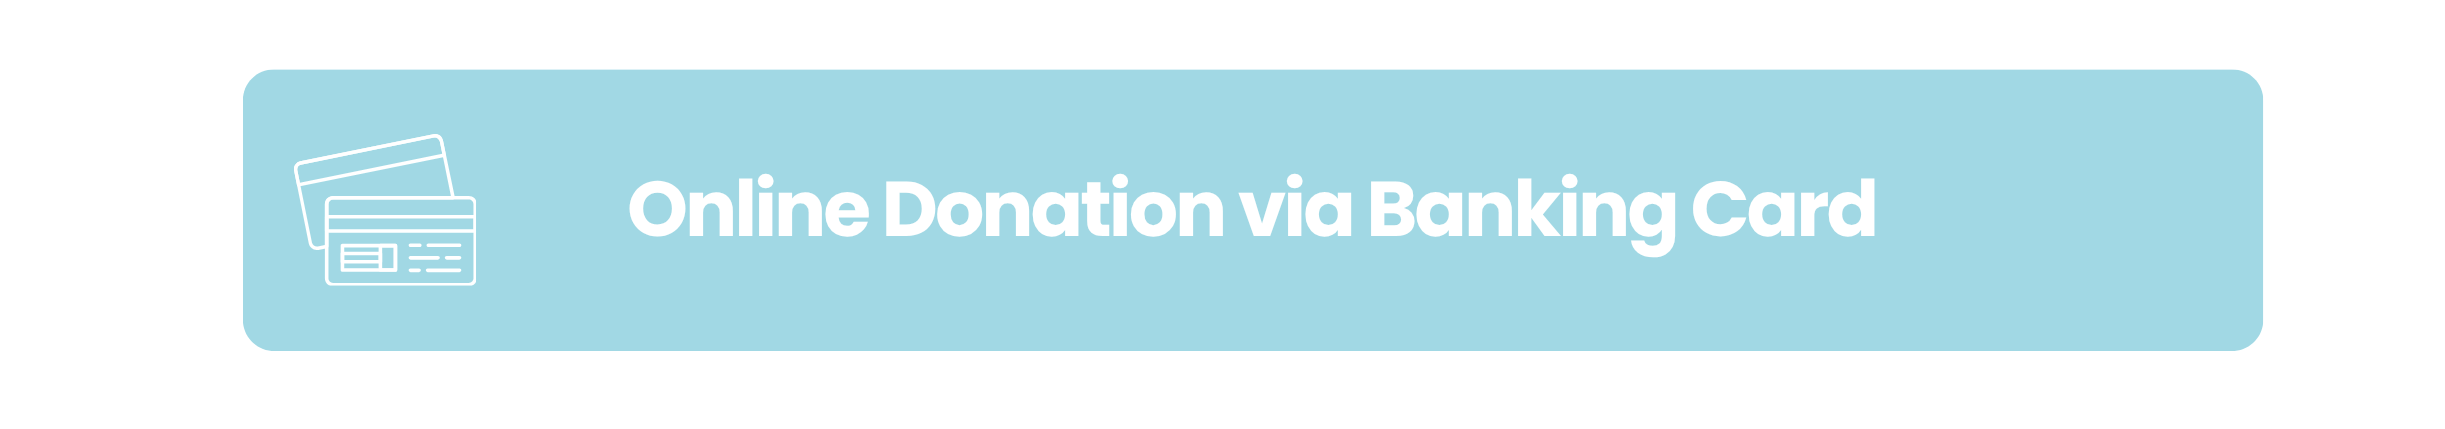
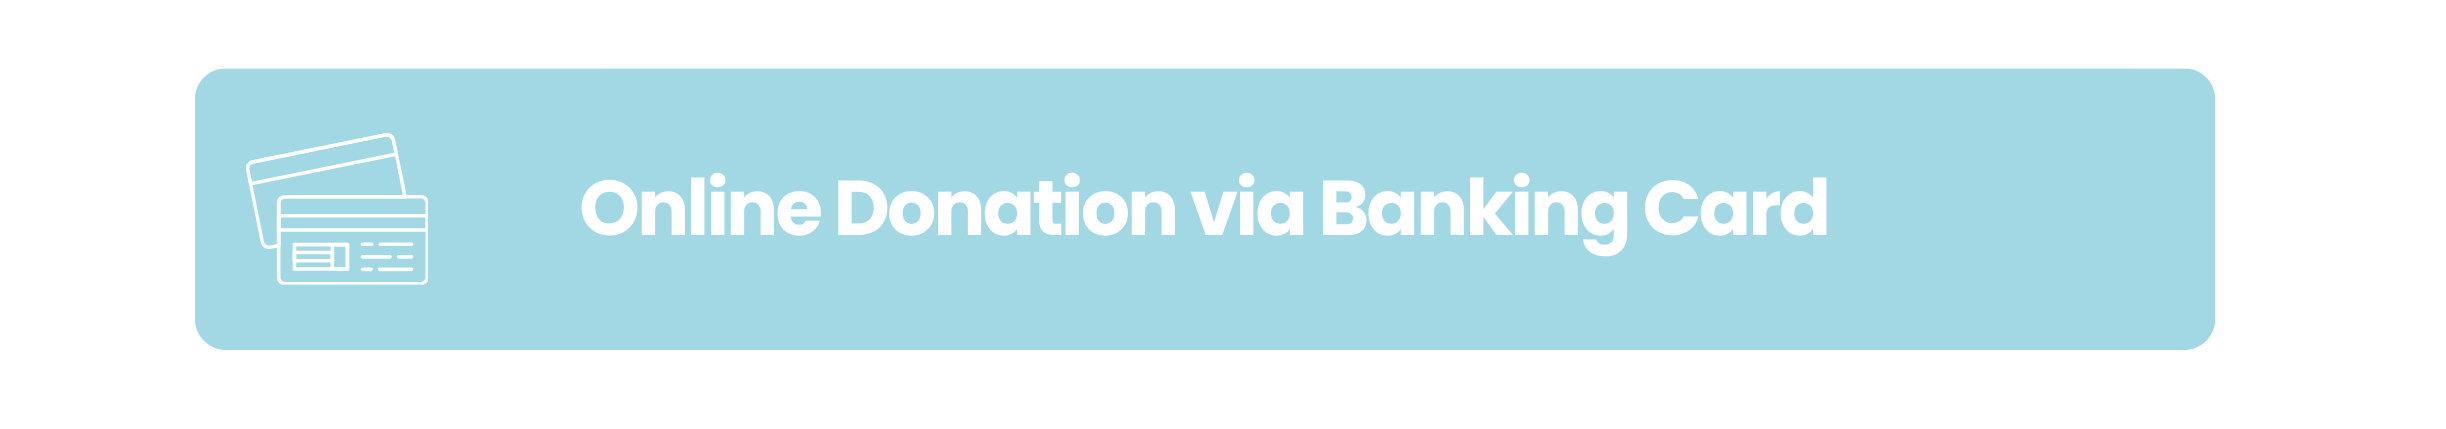
updated the whole website

Changed region(s): [[0.0622, 0.1515, 0.9325, 0.8182]]

diff --git a/src/pages/Impact.tsx b/src/pages/Impact.tsx
@@ -3,37 +3,11 @@ import Footer from "@/components/Footer";
 
 const Impact = () => {
   return (
-    <div className="min-h-screen relative">
+    <div className="min-h-screen relative" style={{ background: "#82C9D8" }}>
       <Navbar />
       
-      {/* Spacer to show background color above Impact section */}
-      <div 
-        className="h-32 md:h-40 lg:h-48"
-        style={{
-          background: '#7EC7D7',
-          backgroundImage: `
-            repeating-linear-gradient(45deg, transparent, transparent 10px, rgba(255,255,255,0.03) 10px, rgba(255,255,255,0.03) 20px),
-            repeating-linear-gradient(-45deg, transparent, transparent 10px, rgba(0,0,0,0.02) 10px, rgba(0,0,0,0.02) 20px),
-            radial-gradient(circle at 30% 30%, rgba(255,255,255,0.1) 0%, transparent 50%),
-            radial-gradient(circle at 70% 70%, rgba(255,255,255,0.08) 0%, transparent 50%)
-          `,
-          backgroundSize: '100% 100%, 100% 100%, 100% 100%, 100% 100%'
-        }}
-      ></div>
-
-      {/* Real People, Real Impact Section */}
       <section 
-        className="relative px-4 py-12 md:py-16 lg:py-20"
-        style={{
-          background: '#7EC7D7',
-          backgroundImage: `
-            repeating-linear-gradient(45deg, transparent, transparent 10px, rgba(255,255,255,0.03) 10px, rgba(255,255,255,0.03) 20px),
-            repeating-linear-gradient(-45deg, transparent, transparent 10px, rgba(0,0,0,0.02) 10px, rgba(0,0,0,0.02) 20px),
-            radial-gradient(circle at 30% 30%, rgba(255,255,255,0.1) 0%, transparent 50%),
-            radial-gradient(circle at 70% 70%, rgba(255,255,255,0.08) 0%, transparent 50%)
-          `,
-          backgroundSize: '100% 100%, 100% 100%, 100% 100%, 100% 100%'
-        }}
+        className="relative px-4 pt-28 pb-12 md:pt-32 md:pb-16 lg:pt-36 lg:pb-20"
       >
         <div className="relative mx-auto max-w-7xl">
           {/* Main Title */}

diff --git a/src/pages/OurTeam.tsx b/src/pages/OurTeam.tsx
@@ -73,37 +73,11 @@ const teamMembers: TeamMember[] = [
 
 const OurTeam = () => {
   return (
-    <div className="min-h-screen relative">
+    <div className="min-h-screen relative" style={{ background: "#9EC961" }}>
       <Navbar />
 
-      {/* Spacer to show background color above section */}
-      <div
-        className="h-32 md:h-40 lg:h-48"
-        style={{
-          background: "#8EC046",
-          backgroundImage: `
-            repeating-linear-gradient(45deg, transparent, transparent 10px, rgba(255,255,255,0.05) 10px, rgba(255,255,255,0.05) 20px),
-            repeating-linear-gradient(-45deg, transparent, transparent 10px, rgba(0,0,0,0.03) 10px, rgba(0,0,0,0.03) 20px),
-            radial-gradient(circle at 25% 25%, rgba(255,255,255,0.15) 0%, transparent 55%),
-            radial-gradient(circle at 75% 75%, rgba(255,255,255,0.1) 0%, transparent 55%)
-          `,
-          backgroundSize: "100% 100%, 100% 100%, 100% 100%, 100% 100%",
-        }}
-      ></div>
-
-      {/* Our Team Section */}
       <section
-        className="relative px-4 py-12 md:py-16 lg:py-20"
-        style={{
-          background: "#8EC046",
-          backgroundImage: `
-            repeating-linear-gradient(45deg, transparent, transparent 10px, rgba(255,255,255,0.05) 10px, rgba(255,255,255,0.05) 20px),
-            repeating-linear-gradient(-45deg, transparent, transparent 10px, rgba(0,0,0,0.03) 10px, rgba(0,0,0,0.03) 20px),
-            radial-gradient(circle at 25% 25%, rgba(255,255,255,0.15) 0%, transparent 55%),
-            radial-gradient(circle at 75% 75%, rgba(255,255,255,0.1) 0%, transparent 55%)
-          `,
-          backgroundSize: "100% 100%, 100% 100%, 100% 100%, 100% 100%",
-        }}
+        className="relative px-4 pt-28 pb-12 md:pt-32 md:pb-16 lg:pt-36 lg:pb-20"
       >
         <div className="relative mx-auto max-w-7xl">
           {/* Title */}

diff --git a/src/pages/OurWork.tsx b/src/pages/OurWork.tsx
@@ -80,7 +80,7 @@ const OurWork = () => {
   }, []);
   return (
     <div 
-      className="min-h-screen relative"
+      className="min-h-screen relative overflow-x-hidden"
       style={{
         background: `
           radial-gradient(circle at 20% 50%, #A173BD 0%, transparent 50%),
@@ -149,9 +149,9 @@ const OurWork = () => {
             }`}
           >
             <img
-              src="/Images/Landing Page/CoA tree.png"
+              src="/Images/Landing Page/CoA tree1.png"
               alt="Children of Adam tree"
-              className="w-[28rem] md:w-[32rem] lg:w-[36rem] xl:w-[40rem]"
+              className="w-[16rem] md:w-[18rem] lg:w-[20rem] xl:w-[22rem]"
             />
           </div>
 
@@ -160,7 +160,7 @@ const OurWork = () => {
             {/* Engage - Left Column */}
             <div 
               data-animate-id="engage-section"
-              className={`relative z-20 space-y-6 text-white -ml-4 md:-ml-8 lg:-ml-12 mt-16 md:mt-20 lg:mt-24 self-end transition-all duration-1000 ${
+              className={`relative z-20 space-y-6 text-white ml-4 md:ml-8 lg:ml-12 mt-16 md:mt-20 lg:mt-24 self-end transition-all duration-1000 ${
                 visibleSections.has('engage-section') 
                   ? 'opacity-100 translate-x-0' 
                   : 'opacity-0 -translate-x-10'

diff --git a/src/pages/Donation.tsx b/src/pages/Donation.tsx
@@ -113,15 +113,15 @@ const Donation = () => {
           {/* Stacked option images */}
           <div className="flex w-full max-w-xl flex-col gap-4 md:gap-5">
             {[1, 2, 3, 4, 5, 6].map((num) => (
-              <div 
-                key={num} 
+              <div
+                key={num}
                 className="w-full cursor-pointer transition-opacity hover:opacity-90"
                 onClick={() => setIsModalOpen(true)}
               >
                 <img
                   src={`/Images/Donation Page/${num}.png`}
                   alt={`Donation option ${num}`}
-                  className="block h-auto w-full object-contain"
+                  className="mx-auto block h-auto w-full max-w-[520px] object-contain"
                 />
               </div>
             ))}
